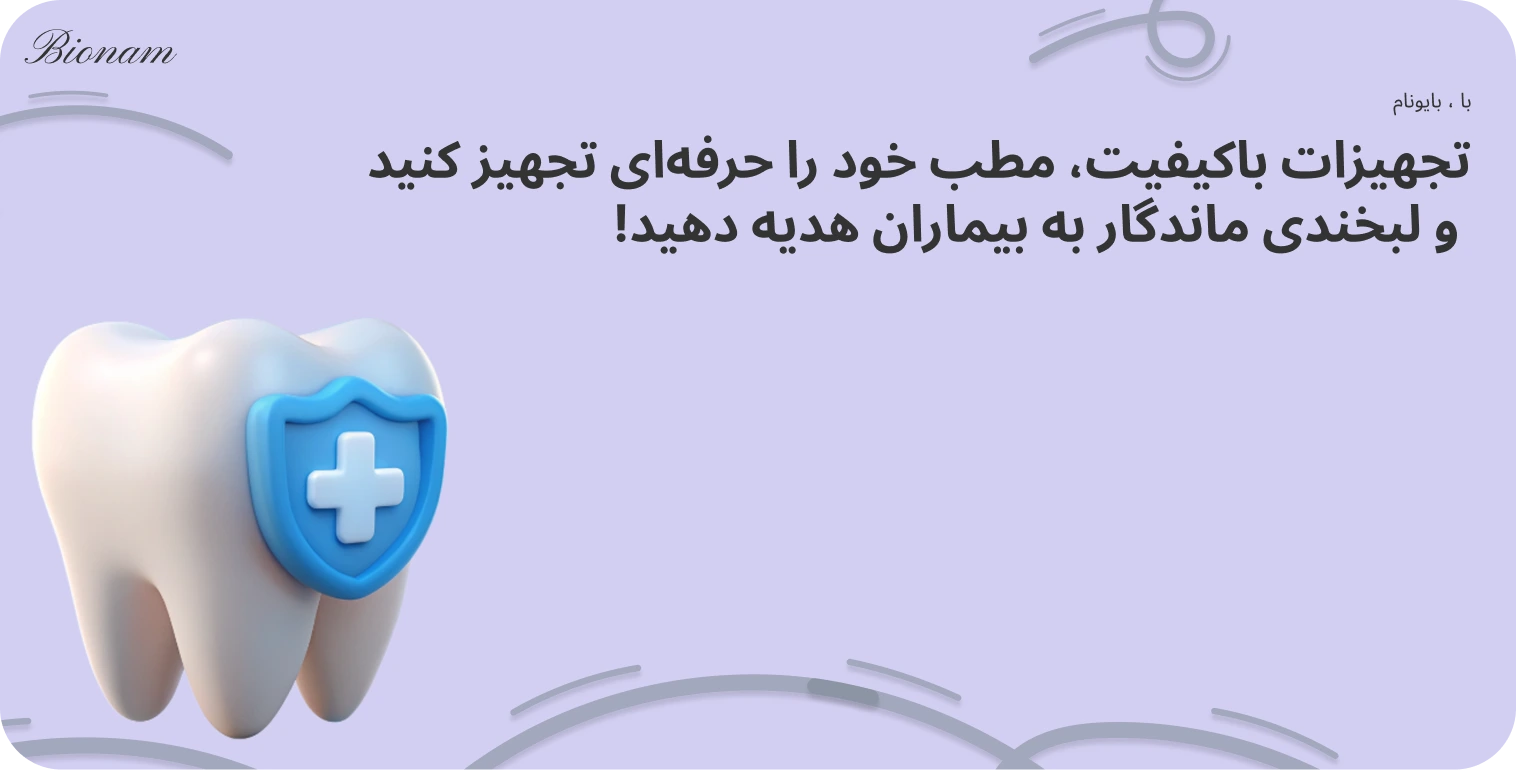
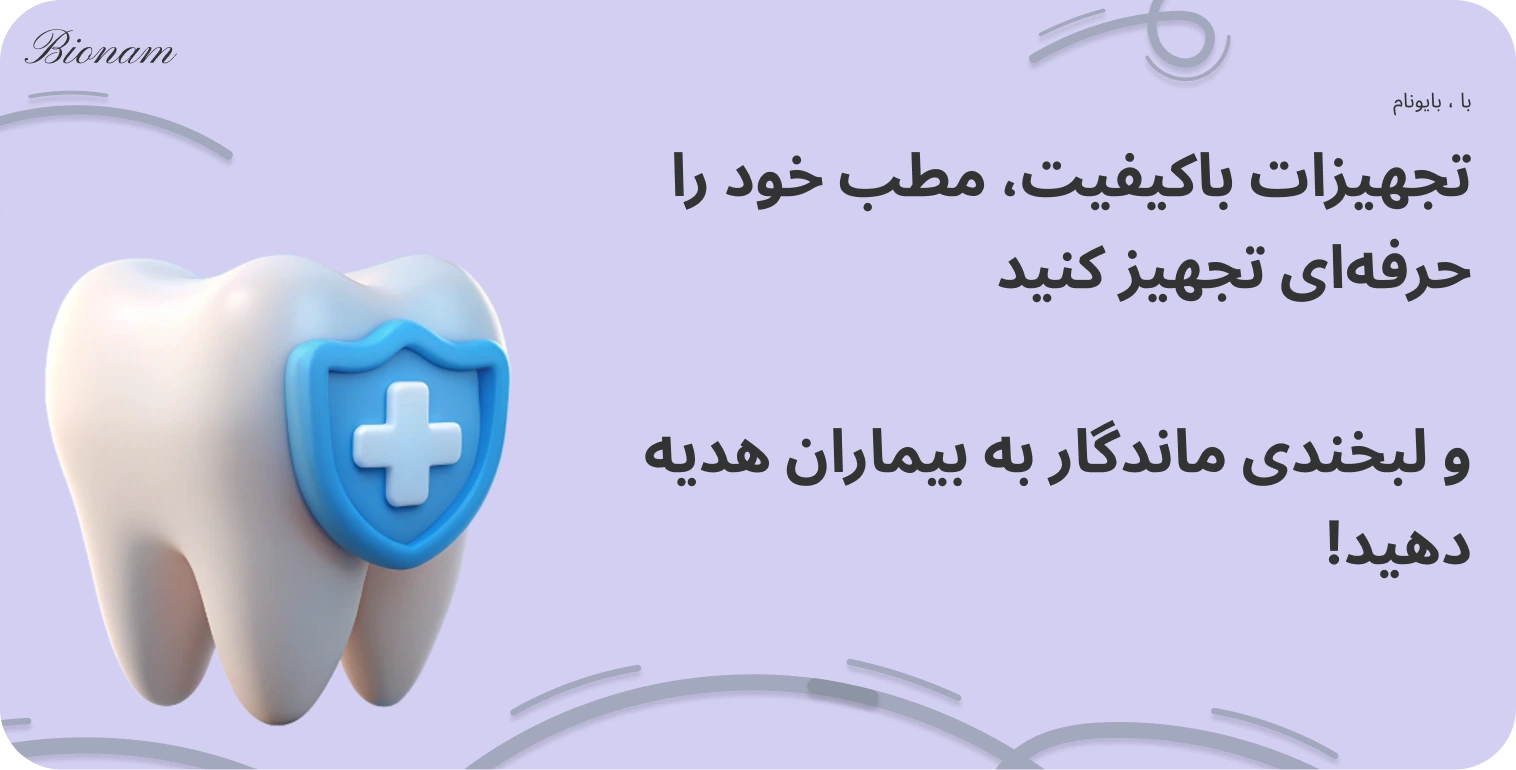
made products card smaller

diff --git a/src/components/MobileHeader.jsx b/src/components/MobileHeader.jsx
@@ -1,15 +1,31 @@
-import { Menu, X } from 'lucide-react'
+import { Info, Mail, Menu, X } from 'lucide-react'
 import Image from 'next/image'
 import Link from 'next/link'
-import { useState } from 'react'
+import { usePathname } from 'next/navigation'
+import { useEffect, useState } from 'react'
+
+const NavItem = ({ href, icon: Icon, text, onClick }) => (
+  <Link
+    href={href}
+    className="flex items-center gap-2 text-lg text-gray-700 bg-lightGray p-4 rounded-lg hover:bg-accent"
+    onClick={onClick}
+  >
+    <Icon size={22} />
+    {text}
+  </Link>
+)
 
 export default function MobileHeader() {
   const [isOpen, setIsOpen] = useState(false)
+  const pathname = usePathname()
+
+  useEffect(() => {
+    setIsOpen(false)
+  }, [pathname])
 
   return (
-    <header className="w-full fixed top-0 right-0 flex items-center justify-between p-2 bg-lightGray shadow-md z-40">
+    <header className="w-full lg:hidden fixed top-0 right-0 flex items-center justify-between p-2 bg-lightGray shadow-md z-40">
       <section className="flex items-center gap-4">
-        {/* لوگو */}
         <Image
           src="/images/logo.webp"
           alt="لوگو"
@@ -20,38 +36,35 @@ export default function MobileHeader() {
         <h3 className="h3">Bionam</h3>
       </section>
 
-      {/* منو آیکن */}
       <button onClick={() => setIsOpen(true)} className="p-2">
         <Menu size={28} className="text-gray-700" />
       </button>
 
-      {/* منو کشویی */}
       {isOpen && (
         <div
           className="fixed inset-0 bg-black bg-opacity-50 z-50"
           onClick={() => setIsOpen(false)}
         >
           <div
-            className="w-64 bg-white h-full shadow-lg p-4 fixed top-0 left-0 flex flex-col"
+            className="w-64 bg-bg h-full shadow-lg p-2 fixed top-0 left-0 flex flex-col"
             onClick={(e) => e.stopPropagation()}
           >
             <button onClick={() => setIsOpen(false)} className="self-end p-2">
               <X size={28} className="text-gray-700" />
             </button>
-
             <nav className="flex flex-col mt-4 space-y-4">
-              <Link
+              <NavItem
                 href="/about"
-                className="text-lg text-gray-700 hover:text-blue-600"
-              >
-                درباره ما
-              </Link>
-              <Link
+                icon={Info}
+                text="درباره ما"
+                onClick={() => setIsOpen(false)}
+              />
+              <NavItem
                 href="/contact"
-                className="text-lg text-gray-700 hover:text-blue-600"
-              >
-                ارتباط با ما
-              </Link>
+                icon={Mail}
+                text="ارتباط با ما"
+                onClick={() => setIsOpen(false)}
+              />
             </nav>
           </div>
         </div>

diff --git a/src/components/ProductCards.jsx b/src/components/ProductCards.jsx
@@ -50,14 +50,14 @@ const ProductCard1 = ({ product }) => {
   }
 
   return (
-    <div className="flex flex-col items-center justify-between bg-light lg:rounded-2xl rounded-t-2xl w-48 h-40 lg:w-72 lg:h-80">
+    <div className="flex flex-col items-center justify-between bg-light lg:rounded-2xl rounded-t-2xl w-40 h-40 lg:w-72 lg:h-80">
       <Link
         href={`/products/${generateSlug(product.name)}-${generateSlug(
           product.brand
         )}`}
-        className="w-full"
+        className=""
       >
-        <figure className="w-full lg:h-48 h-32 flex items-center justify-center rounded-2xl overflow-hidden mt-6">
+        <figure className="w-44 lg:h-48 h-32 flex items-center justify-center rounded-2xl overflow-hidden mt-6">
           <Image
             src={product.images[0]}
             alt={product.name}
@@ -71,7 +71,7 @@ const ProductCard1 = ({ product }) => {
 
       <div className="w-full flex flex-col lg:flex-row justify-between gap-2 lg:items-center bg-accent p-2 rounded-xl">
         <section className="space-y-2">
-          <h3 className="lg:body-text text-[14px] w-44 lg:max-w-[184px] truncate">
+          <h3 className="lg:body-text text-[14px] w-40 lg:max-w-[184px] truncate">
             <Link
               href={`/products/${generateSlug(product.name)}-${generateSlug(
                 product.brand

diff --git a/src/components/MostViewedProducts.jsx b/src/components/MostViewedProducts.jsx
@@ -47,7 +47,7 @@ export default function MostViewedProducts() {
   return (
     <section className="flex flex-col lg:flex-row justify-between gap-12 lg:gap-0 lg:py-24 lg:pr-24 p-6 bg-lightGray">
       <div className="lg:w-1/3 flex lg:flex-col items-center lg:items-start justify-between">
-        <h2 className="lg:h2">محصولات پربازدید ما</h2>
+        <h2 className="lg:h2 h4">محصولات پربازدید ما</h2>
         <p className="hidden lg:block body-text">
           محصولات پربازدید ما شامل محبوبترین و پرفروشترین تجهیزات و مواد مصرفی
           دندانپزشکی هستند.
@@ -103,7 +103,7 @@ export default function MostViewedProducts() {
         dir="rtl"
         spaceBetween={16}
         breakpoints={{
-          0: { slidesPerView: 1.5, spaceBetween: 20 },
+          0: { slidesPerView: 1.8, spaceBetween: 20 },
           480: { slidesPerView: 2.2, spaceBetween: 24 },
           768: { slidesPerView: 3, spaceBetween: 30 },
           1024: { slidesPerView: 2.1, spaceBetween: 40 },

diff --git a/src/components/CategoriesAndProducts .jsx b/src/components/CategoriesAndProducts .jsx
@@ -38,7 +38,7 @@ const CategoriesAndProducts = () => {
 
         setCategories(formattedCategories)
         setProducts(formattedProducts)
-        setFilteredProducts(formattedProducts.slice(0, 8))
+        setFilteredProducts(formattedProducts.slice(0, 1))
       } catch (error) {
         console.error('خطا در دریافت دادهها:', error)
       } finally {
@@ -67,9 +67,9 @@ const CategoriesAndProducts = () => {
       <header className="flex items-center justify-between">
         <h2 className="lg:h2 h4">دستهبندی محصولات ما</h2>
         <Link href="/products">
-          <button className="btn-primary rounded-full flex items-center gap-2">
-            دیدن محصولات بیشتر
-            <FiArrowLeft size={24} />
+          <button className="btn-primary rounded-full text-sm whitespace-nowrap">
+            <span>مشاهده همه</span>
+            <FiArrowLeft size={20} />
           </button>
         </Link>
       </header>

diff --git a/src/components/Accordion.jsx b/src/components/Accordion.jsx
@@ -69,13 +69,14 @@ const FAQAccordion = () => {
             {/* پاسخ */}
             <div
               id={`answer-${index}`}
-              className={`flex items-start gap-3 p-6 body-text text-gray-500 pr-12 transition-all duration-300 ${
+              className={`flex items-start gap-3 p-6 body-text text-gray-500 pr-8 transition-all duration-300 ${
                 activeIndex === index ? 'flex' : 'hidden'
               }`}
               aria-labelledby={`question-${index}`} // برای ارتباط پاسخ با سوال
             >
               {/* دایره توپر قبل از متن پاسخ */}
-              <div className="sm:w-3 w-5 h-3 rounded-full bg-accent mt-2"></div>
+              <div className="w-4 h-4 rounded-full bg-accent mt-2 shrink-0"></div>
+
               <p>{faq.answer}</p>
             </div>
           </div>

diff --git a/src/app/contact/page.jsx b/src/app/contact/page.jsx
@@ -142,7 +142,7 @@ export default function Contact() {
           </div>
 
           {/* بخش فرم تماس */}
-          <div className="bg-lightGray text-dark p-8 rounded-lg shadow-lg w-full lg:w-2/3">
+          <div className="bg-lightGray text-dark lg:p-8 p-4 rounded-lg shadow-lg w-full lg:w-2/3">
             <h2 className="mb-6 text-4xl font-extrabold text-center">
               پیامتو ارسال کن
             </h2>

diff --git a/src/components/Banner.jsx b/src/components/Banner.jsx
@@ -9,7 +9,7 @@ export default function Banner() {
     >
       {/* در اینجا میتوانید تصویر یا متن دلخواه اضافه کنید */}
       <Image
-        src={'/images/Banner-M.webp'}
+        src={'/images/Banner.webp'}
         alt="بنر"
         width={1182}
         height={600}
